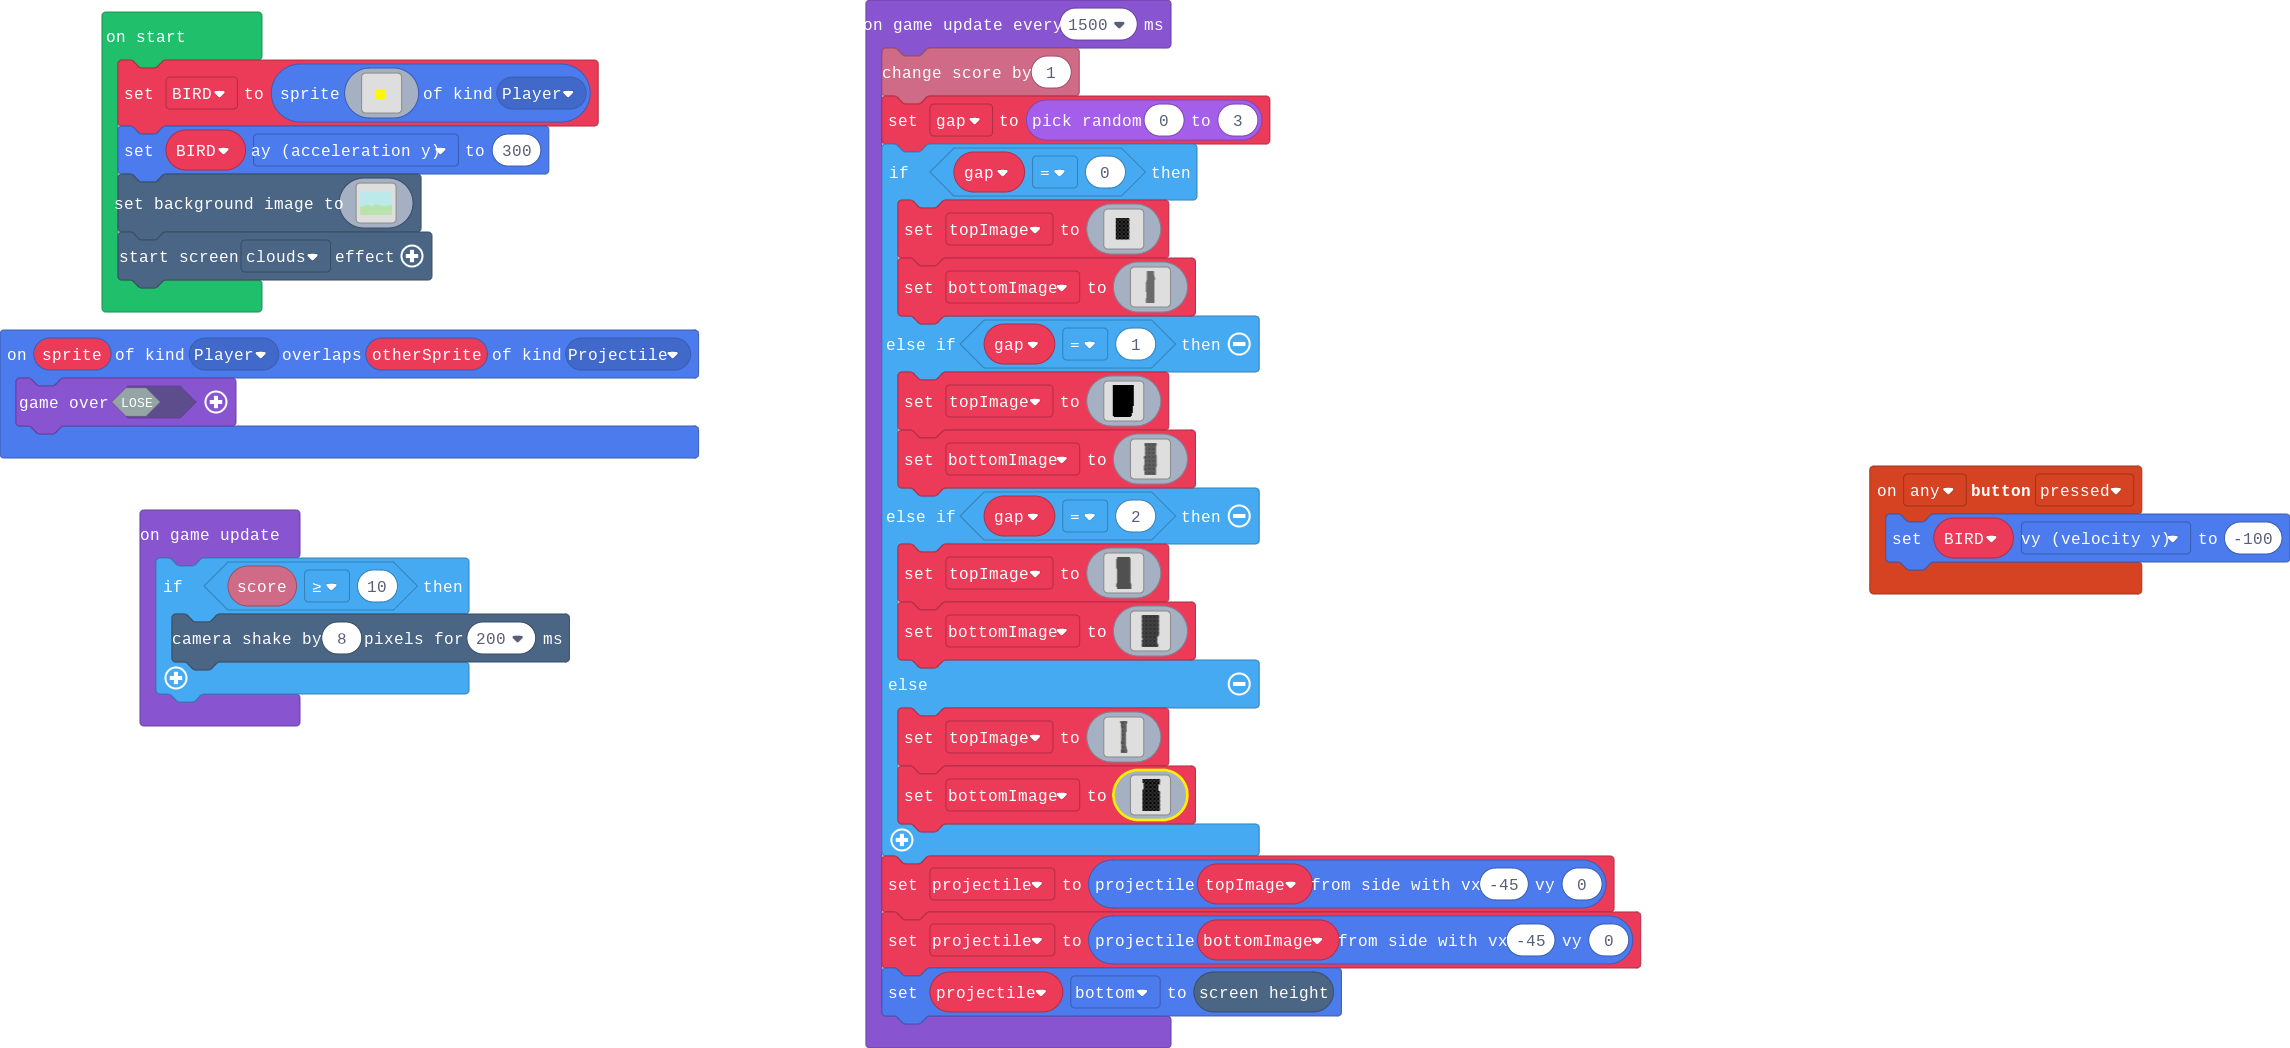
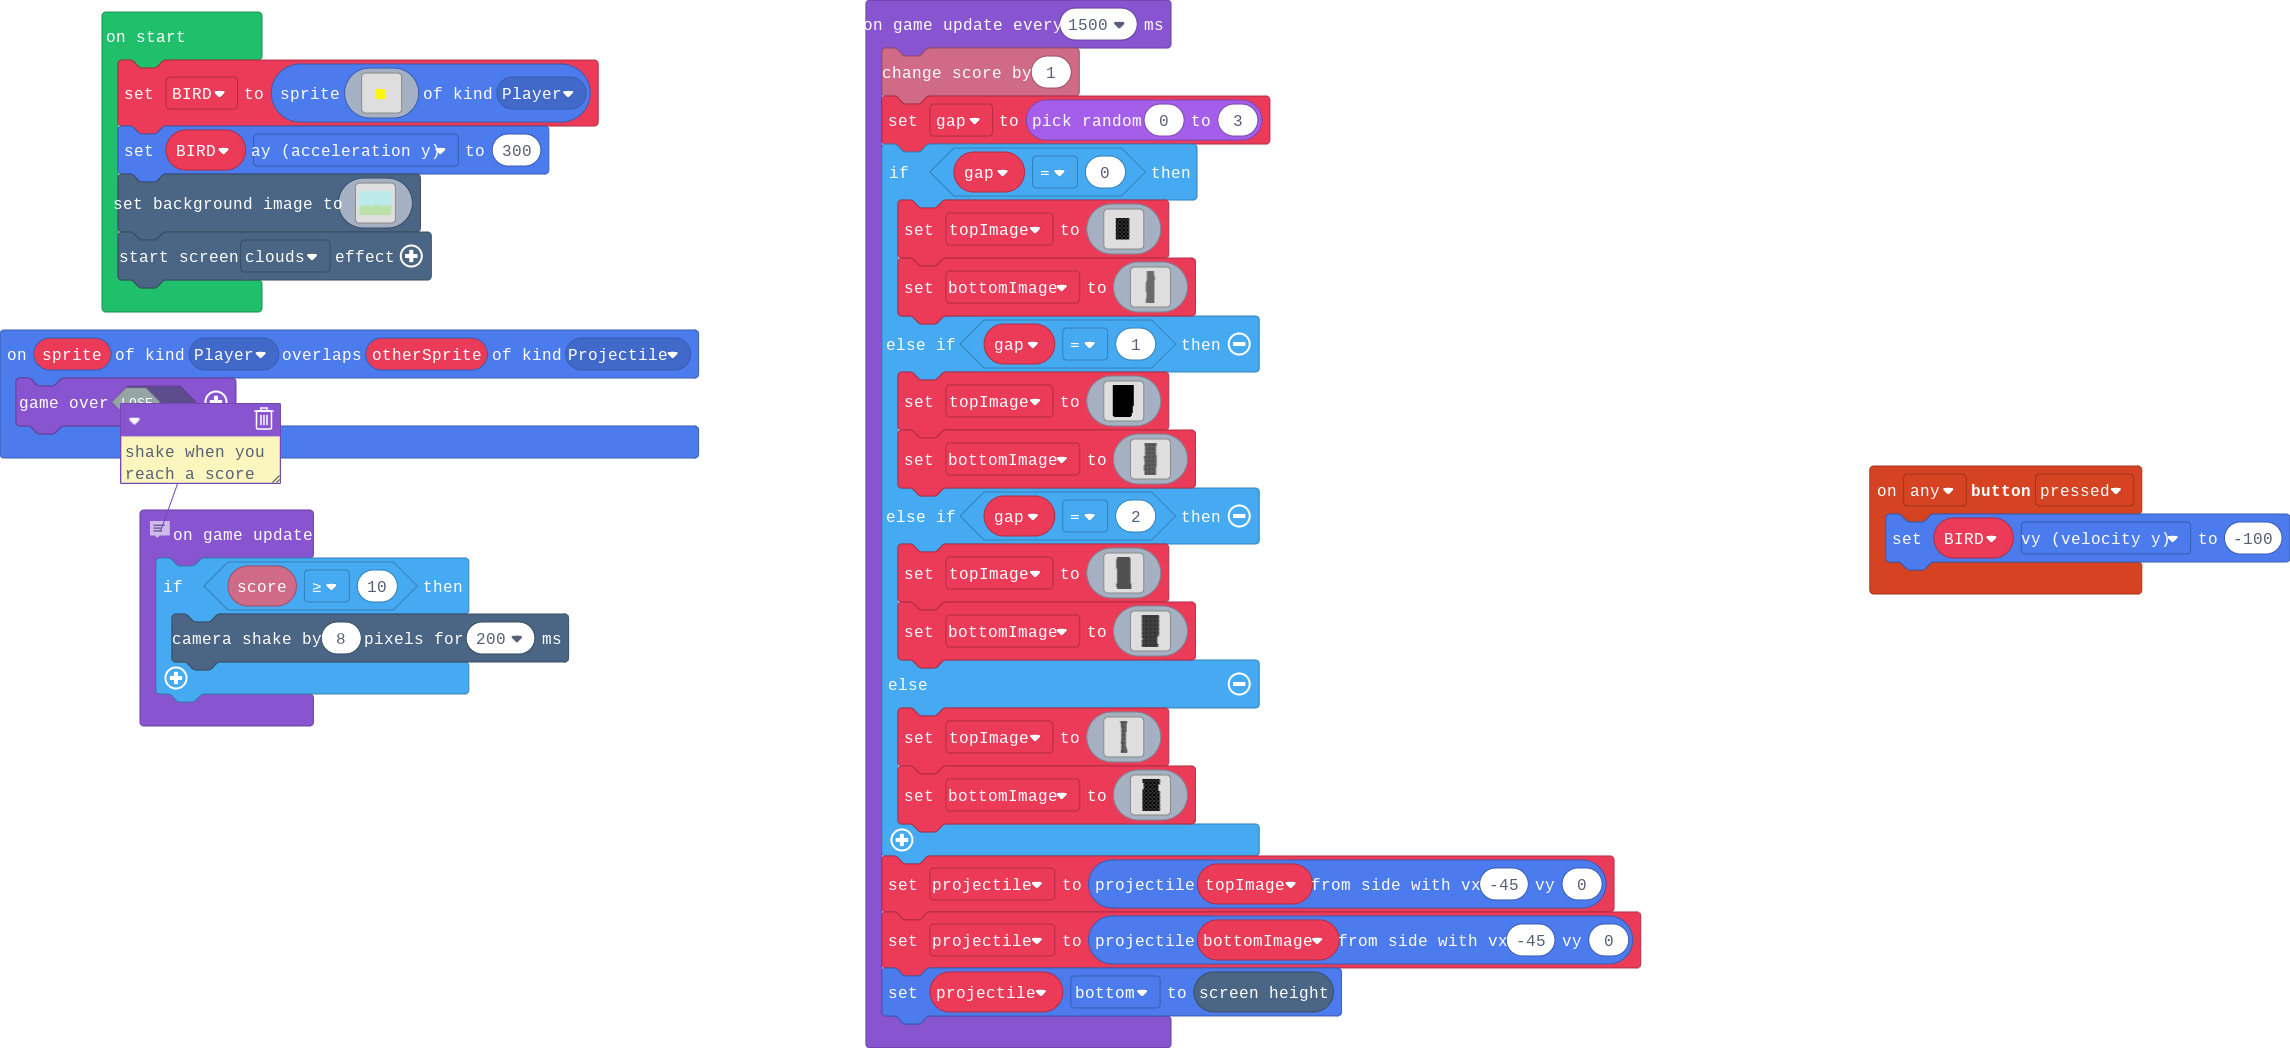
aaaa

diff --git a/main.ts b/main.ts
@@ -515,6 +515,7 @@ game.onUpdateInterval(1500, function () {
     projectile = sprites.createProjectileFromSide(bottomImage, -45, 0)
     projectile.bottom = scene.screenHeight()
 })
+// shake when you reach a score
 game.onUpdate(function () {
     if (info.score() >= 10) {
         scene.cameraShake(8, 200)
